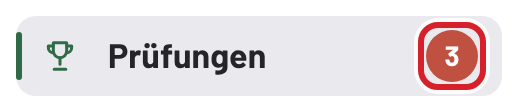
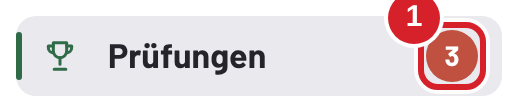
W30: Richter-Runde 2 – Verzeichnis-Seiten stabil (+ Selbstprüfung beim Bau), Serientermine-Knopf und Statistik ganz im Bild, keine falschen roten Kreise, Hinweis zum Namen „Serband“ auf dem Deckblatt
Claude-Session: https://claude.ai/code/session_01DbS8C9Mv3zF3xt3GyF3Djt

Changed region(s): [[0.7413, 0.0, 0.8649, 0.4286]]

diff --git a/docs/buero-handbuch/kapitel/01-start.html b/docs/buero-handbuch/kapitel/01-start.html
@@ -10,7 +10,7 @@
   </ol>
   <figure class="nebeneinander"><img src="bilder/01-login.png" class="klein" alt=""><img src="bilder/01-login-handy.png" class="handy" alt=""></figure>
   <p style="font-size:9pt;color:#5b6270;margin:-4pt 0 8pt">Links: die Anmeldeseite, die Nummern passen zu den Schritten. Rechts: am Handy.</p>
-  <div class="gut"><h3>Gut zu wissen</h3><ul><li>Die Seite ist für Büro und Fahrschul-Leitung gedacht, am besten am PC.</li><li>Der Browser darf sich E-Mail und Passwort merken (Feld „autocomplete“).</li><li>Nach der Anmeldung geht es je nach Konto weiter: Das gemeinsame Büro-Konto fragt danach noch „Wer bedient gerade?“ (PIN). Fahrschul-Leitung und Super-Admin haben eigene Konten und brauchen keine PIN.</li></ul></div>
+  <div class="gut"><h3>Gut zu wissen</h3><ul><li>Die Seite ist für Büro und Fahrschul-Leitung gedacht, am besten am PC.</li><li>Der Browser darf sich E-Mail und Passwort merken.</li><li>Nach der Anmeldung geht es je nach Konto weiter: Das gemeinsame Büro-Konto fragt danach noch „Wer bedient gerade?“ (PIN). Fahrschul-Leitung und Super-Admin haben eigene Konten und brauchen keine PIN.</li></ul></div>
 </section>
 
 <section class="funktion">
@@ -133,8 +133,8 @@
   <div class="wofuer"><h3>Wofür</h3><p>Der Streifen ganz oben zeigt, mit welchen Rechten du gerade arbeitest.</p></div>
   <h3>So geht’s</h3>
   <ol class="schritte">
-    <li>Fahrschul-Leitung: blauer Streifen „Fahrschul-Leitung“ (1, erstes Bild).</li>
-    <li>Büro: grauer Streifen „Büro“ mit dem Zusatz „bedient gerade: Name“ (1, zweites Bild).</li>
+    <li>Fahrschul-Leitung: blauer Streifen „Fahrschul-Leitung“ (1) im ersten Bild.</li>
+    <li>Büro: grauer Streifen „Büro“ mit dem Zusatz „bedient gerade: Name“ (1) im zweiten Bild.</li>
   </ol>
   <figure><img src="bilder/01-streifen-leitung.png" class="handy" alt=""><figcaption>Leitung.</figcaption></figure>
   <figure><img src="bilder/01-streifen-buero.png" class="handy" alt=""><figcaption>Büro nach der PIN-Anmeldung.</figcaption></figure>
@@ -175,8 +175,8 @@
   <h3>So geht’s</h3>
   <ol class="schritte">
     <li>Bei einer falschen PIN steht „PIN stimmt nicht. Noch 4 Versuche.“ (die Zahl wird kleiner).</li>
-    <li>Nach dem 5. Fehlversuch steht „Zu viele falsche Versuche: gesperrt bis …“ (1, linkes Bild).</li>
-    <li>In der Namensliste steht beim Namen „gesperrt bis …“ (1, rechtes Bild). Andere Personen können sich weiter anmelden.</li>
+    <li>Nach dem 5. Fehlversuch steht „Zu viele falsche Versuche: gesperrt bis …“ (1) im linken Bild.</li>
+    <li>In der Namensliste steht beim Namen „gesperrt bis …“ (1) im rechten Bild. Andere Personen können sich weiter anmelden.</li>
     <li>Nach Ablauf der Zeit meldest du dich normal an. PIN vergessen? Eine Person mit dem Recht „darf verwalten“ gibt sie neu frei (Kapitel 6).</li>
   </ol>
   <figure class="nebeneinander"><img src="bilder/01-wer-gesperrt.png" class="klein" alt=""><img src="bilder/01-wer-gesperrt-liste.png" class="klein" alt=""></figure>
@@ -612,7 +612,7 @@
   <div class="wofuer"><h3>Wofür</h3><p>Du siehst, was sich in jedem Update geändert hat, in einfachen Worten.</p></div>
   <h3>So geht’s</h3>
   <ol class="schritte">
-    <li>Tippe links unten auf „Neuigkeiten“ (1, erstes Bild).</li>
+    <li>Tippe links unten auf „Neuigkeiten“ (1) im ersten Bild.</li>
     <li>Das neueste steht oben mit der Marke „Aktuell“.</li>
     <li>Jeder Eintrag (zweites Bild) hat Datum (1), einen kurzen Satz (2), Stichpunkte (3) und die Versionsnummer (4).</li>
   </ol>

diff --git a/docs/buero-handbuch/kapitel/03-kalender.html b/docs/buero-handbuch/kapitel/03-kalender.html
@@ -11,7 +11,7 @@
     <li>Mit den Häkchen wählst du, welche Fahrlehrer du siehst (6), und welche Terminarten (7).</li>
     <li>Rechts oben stehen die Knöpfe <span class="knopf-name">Wer hat Platz?</span>, <span class="knopf-name">Urlaub</span> und <span class="knopf-name">+ Termin</span> (8).</li>
   </ol>
-  <figure><img src="bilder/03-kalender-tag.png" class="mittel" alt=""><figcaption>Der Kalender in der Tagesansicht. Die Nummern passen zu den Schritten.</figcaption></figure>
+  <figure><img src="bilder/03-kalender-tag.png" class="mittel" alt=""><figcaption>Der Kalender in der Tagesansicht. Die roten Nummern im Text zeigen auf die Stellen im Bild.</figcaption></figure>
   <div class="gut"><h3>Gut zu wissen</h3><ul>
     <li>Die Seite lädt sich alle 2 Minuten selbst neu. Du siehst also auch Termine, die ein Fahrlehrer gerade angelegt hat.</li>
     <li>Wenn du den Kalender verlässt und über das Menü zurückkommst, zeigt er wieder den Tag oder Monat, den du zuletzt gesehen hast.</li>
@@ -474,7 +474,7 @@
   <h3>So geht’s</h3>
   <ol class="schritte">
     <li>Tippe im Kalender auf <span class="knopf-name">Wer hat Platz?</span>.</li>
-    <li>Oben stehen drei Kacheln (1 bis 3): die Zahl der Fahrlehrer, die Empfehlung („Nächster Schüler zu: …“) und die Zahl der Schüler ohne Fahrlehrer.</li>
+    <li>Oben stehen drei Kacheln: die Zahl der Fahrlehrer (1), die Empfehlung („Nächster Schüler zu: …“) (2) und die Zahl der Schüler ohne Fahrlehrer (3).</li>
     <li>Mit <span class="knopf-name">Schüler ohne Fahrlehrer zeigen</span> (4) gehst du zur Liste dieser Schüler.</li>
   </ol>
   <figure><img src="bilder/03-auslastung.png" class="mittel" alt=""><figcaption>Die Übersichtsseite.</figcaption></figure>

diff --git a/docs/buero-handbuch/kapitel/02-schueler.html b/docs/buero-handbuch/kapitel/02-schueler.html
@@ -11,7 +11,7 @@
     <li>Mit <span class="knopf-name">+ Schüler anlegen</span> (6) kommt ein neuer Schüler dazu.</li>
     <li>In der Liste auf <span class="knopf-name">Bearbeiten</span> tippen, um die Akte des Schülers zu öffnen.</li>
   </ol>
-  <figure><img src="bilder/02-liste.png" class="mittel" alt=""><figcaption>Die Seite „Schüler“. Die Nummern passen zu den Schritten.</figcaption></figure>
+  <figure><img src="bilder/02-liste.png" class="mittel" alt=""><figcaption>Die Seite „Schüler“. Die roten Nummern im Text zeigen auf die Stellen im Bild.</figcaption></figure>
   <div class="gut"><h3>Gut zu wissen</h3><ul>
     <li>Die Liste ist nach Namen von A bis Z sortiert.</li>
     <li>Unter den Filtern steht, wie viele Schüler gerade gezeigt werden, zum Beispiel „22 Schüler“.</li>

diff --git a/docs/buero-handbuch/handbuch.css b/docs/buero-handbuch/handbuch.css
@@ -72,5 +72,5 @@ figcaption { font-size: 9pt; color: var(--grau); margin-top: 3pt; }
 table.liste { border-collapse: collapse; width: 100%; font-size: 9.8pt; margin: 4pt 0 8pt; }
 table.liste th, table.liste td { border: 1px solid var(--linie); padding: 3pt 5pt; text-align: left; vertical-align: top; }
 table.liste th { background: #f3f5f7; }
-.unsichtbar { color: #fff; font-size: 1pt; line-height: 0; }
+.unsichtbar { position: absolute; color: #fff; font-size: 1pt; line-height: 0; } /* aus dem Fluss: darf den Umbruch nicht ändern */
 .marke-ref { display: inline-block; width: 13pt; height: 13pt; border-radius: 50%; background: var(--rot); color: #fff; font: 700 8pt/13pt Arial, sans-serif; text-align: center; vertical-align: 1pt; margin: 0 1pt; }

diff --git a/docs/buero-handbuch/kapitel/06-sonstiges.html b/docs/buero-handbuch/kapitel/06-sonstiges.html
@@ -684,7 +684,7 @@
   <h3>So geht’s</h3>
   <ol class="schritte">
     <li>Zahl bei „Länge“ ändern (1) (30 bis 90 Minuten).</li>
-    <li><span class="knopf-name">Speichern</span> (2). Mit „Auf Standard zurück (45)“ gilt wieder 45 Minuten (Knopf erscheint, wenn du etwas geändert hast).</li>
+    <li><span class="knopf-name">Speichern</span> (2). Mit „Auf Standard zurück &#40;45&#41;“ gilt wieder 45 Minuten (Knopf erscheint, wenn du etwas geändert hast).</li>
   </ol>
   <figure><img src="bilder/06-einst-kalender.png" class="mittel" alt=""><figcaption>Das Thema.</figcaption></figure>
   <figure><img src="bilder/06-einst-kalender-fehler.png" class="mittel" alt=""><figcaption>Fehler bei 500.</figcaption></figure>

diff --git a/docs/buero-handbuch/kapitel/04-pruefungen.html b/docs/buero-handbuch/kapitel/04-pruefungen.html
@@ -929,7 +929,7 @@
     <li><b>davon bestätigt abgegeben:</b> wie viele davon durch eine Quittung bestätigt sind.</li>
     <li><b>Fahrlehrer ohne Quittung:</b> für wie viele Fahrlehrer es noch keine Quittung gibt. Gold, wenn der Zeitraum schon vorbei ist.</li>
   </ul>
-  <figure><img src="bilder/04-fc-kacheln.png" class="mittel" alt=""><figcaption>Die drei Kacheln (1, 2, 3).</figcaption></figure>
+  <figure><img src="bilder/04-fc-kacheln.png" class="mittel" alt=""><figcaption>Die drei Kacheln (1) (2) (3).</figcaption></figure>
   <div class="gut"><h3>Gut zu wissen</h3><ul><li>Die Zahlen gelten für den Zeitraum, der in der Filterzeile gewählt ist.</li></ul></div>
 </section>
 
